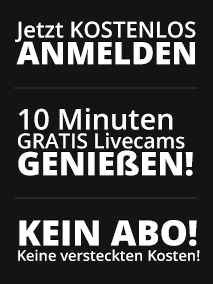
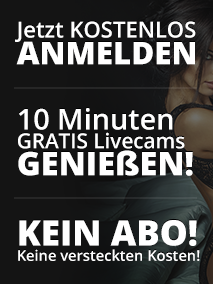
Added zuhause changes

Changed region(s): [[0.6479, 0.5634, 1.0, 1.0], [0.7606, 0.0282, 1.0, 0.5915], [0.7887, 0.1972, 0.8169, 0.2254]]

diff --git a/src/components/pages/performers/performers.ts b/src/components/pages/performers/performers.ts
@@ -34,6 +34,7 @@ export default class Performers extends Vue {
     getPerformerStatus = getPerformerStatus;
     getPerformerLabel = getPerformerLabel;
     openModal = openModal;
+    country = config.Country;
 
     addFavourite = (performer: Performer) => addFavourite(this.$store.state.authentication.user.id, performer.id).then(() => performer.isFavourite = true);
     removeFavourite = (performer: Performer) => removeFavourite(this.$store.state.authentication.user.id, performer.id).then(() => performer.isFavourite = false);
@@ -52,8 +53,12 @@ export default class Performers extends Vue {
         return this.performers.length === 0;
     }
 
+    get showBanner(){
+        return (this.countryBanners.indexOf(this.country) !== -1);
+    }
+
     get getBanner(){
-        return (this.countryBanners.indexOf(config.Country) !== -1);
+        return require(`../../../assets/images/${this.country}/gridbanner.png`);
     }
 
     hasService(performerId: number, service: string){

diff --git a/src/components/pages/performers/performers.tpl.html b/src/components/pages/performers/performers.tpl.html
@@ -4,11 +4,11 @@
         <div class="performers-notfound" v-if="noPerformers">{{ $t('performers.noperformersfound') }}</div>
 
         <div class="performers">
-            <div class="col-xs-6 col-sm-3 col-lg-15 grid" v-if="getBanner">
+            <div class="col-xs-6 col-sm-3 col-lg-15 grid" v-if="showBanner">
                 <div class="performers__block">
                     <div class="performers__info">
                         <div class="performers__image">
-                            <img v-on:click="openModal('register')" src="../../../assets/images/de/gridbanner.png" />
+                            <img v-on:click="openModal('register')" :src="getBanner" />
                         </div>
                     </div>
                 </div>

diff --git a/src/components/pages/payment/payment.ts b/src/components/pages/payment/payment.ts
@@ -1,4 +1,5 @@
 import { Component, Prop } from 'vue-property-decorator';
+import { Route } from 'vue-router';
 import Vue from 'vue';
 
 import config from '../../../config';
@@ -57,6 +58,12 @@ export default class Payment extends Vue {
         await this.getInfo();
 
         this.loadCache();
+
+        // Payment Failure message!
+        if(this.$route.name === 'PaymentFailure'){
+            this.$store.dispatch('errorMessage', 'payment.alerts.errorPaymentFailure');
+            this.$router.replace({ path: '/payment/' });
+        }
     }
 
     beforeDestroy(){

diff --git a/src/router/index.ts b/src/router/index.ts
@@ -105,6 +105,12 @@ const routes = [{
                 component: Thankyou
             },
             {
+                path: 'payment-failure/',
+                name: 'PaymentFailure',
+                beforeEnter: authenticatedInterceptor,
+                component: Payment
+            },
+            {
                 path: 'payment/',
                 name: 'Payment',
                 beforeEnter: authenticatedInterceptor,

diff --git a/src/styles/_components.scss b/src/styles/_components.scss
@@ -125,7 +125,8 @@
     @include rem(padding, 0px);
     list-style: none;
     li {
-        @include rem(font-size, 12px);
+        @include rem(font-size, 10px);
+        font-weight: 600;
         &:before {
             color: $pallete-21;
             content: "\f05d";
